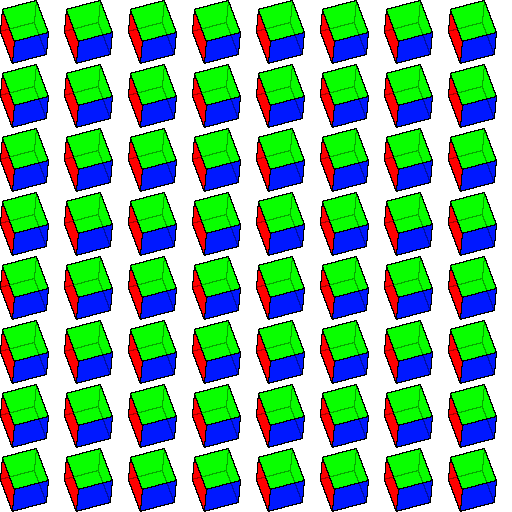
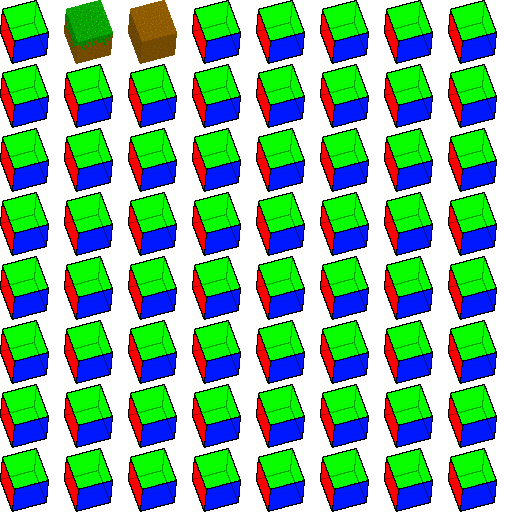
add chunks, fix some bugs, add grass and dirt block, rename certificate

Changed region(s): [[0.25, 0.0, 0.3438, 0.125], [0.125, 0.0, 0.2188, 0.125]]

diff --git a/activity/public/game.js b/activity/public/game.js
@@ -235,7 +235,7 @@ class Chunk {
 
     draw() {
         if (this.blocksChanged && this.visible) this.render();
-        const pos = position(this.x*chunkSize, 0, this.y*chunkSize)
+        const pos = position(this.x*chunkSize, this.y*chunkSize, 0)
         ctx.drawImage(this.image, pos.x-camera.x-250, pos.y+camera.y+250)
     }
 
@@ -273,6 +273,7 @@ class Block {
 
     draw() {
         console.log(`drawing block at ${this.x}, ${this.y}, ${this.z}`)
+        tmpCtx.filter = `brightness(${1+this.z*0.05})`;
         tmpCtx.drawImage(
             tileMap, this.imageCrop.x, this.imageCrop.y, this.imageCrop.w, this.imageCrop.h,
             this.position.x+500, this.position.y+500, this.imageCrop.w, this.imageCrop.h

diff --git a/activity/server.js b/activity/server.js
@@ -173,8 +173,8 @@ app.get("/api/me", async (req, res) => {
 // ---- Start server ----
 https.createServer(
     {
-        key: fs.readFileSync("localhost-key.pem"), // The server will be http and acessed by Apache in prod
-        cert: fs.readFileSync("localhost.pem"),    // so this will be removed
+        key: fs.readFileSync("localhost.key"), // The server will be http and acessed by Apache in prod
+        cert: fs.readFileSync("localhost.crt"),    // so this will be removed
     },
     app
 ).listen(3000);

diff --git a/activity/vite.config.js b/activity/vite.config.js
@@ -8,8 +8,8 @@ export default defineConfig({
   server: {
     port: 3030,
     https: {
-      key: fs.readFileSync(path.resolve(__dirname, 'localhost-key.pem')),
-      cert: fs.readFileSync(path.resolve(__dirname, 'localhost.pem'))
+      key: fs.readFileSync(path.resolve(__dirname, 'localhost.key')),
+      cert: fs.readFileSync(path.resolve(__dirname, 'localhost.crt'))
     },
     proxy: {
       '/api': {
